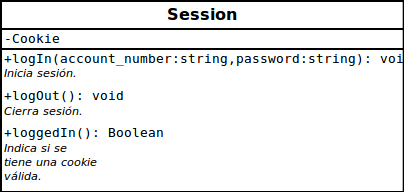
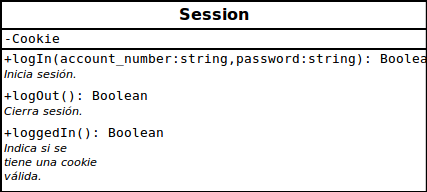
Models

diff --git a/app/src/main/java/mx/unam/becapp/app/models/Session.java b/app/src/main/java/mx/unam/becapp/app/models/Session.java
@@ -1,0 +1,72 @@
+package mx.unam.becapp.app.models;
+
+import org.json.JSONObject;
+import java.io.InputStream;
+import java.io.InputStreamReader;
+import org.apache.http.client.HttpClient;
+import org.apache.http.client.methods.HttpPost;
+import org.apache.http.entity.StringEntity;
+import org.apache.http.HttpResponse;
+
+public class Session {
+    private String app_url = "http://api-dgose.herokuapp.com";
+    private String action_url = "/users/sign_in/";
+
+    /**
+     * Envia la solicitud de login a la API.
+     *
+     * @param number Número de cuenta como String.
+     * @param password Contraseña.
+     */
+    public boolean logIn(String number, String password) {
+        InputStream is = null;
+        String result = null;
+
+        // FIXME: I mean, just look at it :-\
+        JSONObject jsonUser = new JSONObject()
+            .put("account_number", number)
+            .put("password", password);
+        JSONObject jsonObject = new JSONObjects()
+            .put("user", jsonUser);
+
+        try {
+            HttpClient httpclient = new DefaultHttpClient();
+            HttpPost httpPost = new HttpPost(url);
+
+            StringEntity se = new StringEntity(jsonObject.toString());
+
+            httpPost.setEntity(se);
+
+            httpPost.setHeader("Accept", "application/json");
+            httpPost.setHeader("Content-type", "application/json");
+
+            HttpResponse httpResponse = httpclient.execute(httpPost);
+
+            is = httpResponse.getEntity().getContent();
+
+            if(is != null)
+                result = convertInputStreamToString(is);
+            else
+                result = "Did not work!";
+
+        } catch (Exception e) {
+            result = e.getMessage();
+
+        } finally {
+            if (is != null) {
+                is.close();
+            } 
+        }
+
+        return result;
+        return false;
+    }
+
+    /**
+     * Envía el mensaje de fin de sesión a la API.
+     *
+     */
+    public boolean logOut() {
+        return false;
+    }
+}

diff --git a/docs/models.md b/docs/models.md
@@ -1,20 +1,18 @@
 # Modelos
 
-## `Session`
-### Una sesión del usuario.
+## Sesión de usuario `Session`
+![Diagrama de la clase Session](diagrams/models-session.png)
+    1. Al iniciar sesión en el sistema a través de la API, se contruye una instancia de la clase `Session`.
+    2. Se utiliza el método `logIn()` que recibe el nombre de usuario y contraseña; y devuelve el resultado de la solicitud.
+    3. Para cerrar sesión, se usa el método `logOut()` que no recibe parámetros y devuelve el resultado de la operación.
+
+
+## Perfil del becario `Profile`
 ![Diagrama de la clase Session](diagrams/models-session.png)
 
-Modelo usado para guardar los datos de la sesión. En cualquier momento debe existir una única instancia de esta clase.
-
-## `Profile`
-### Perfil del becario.
-![Diagrama de la clase Session](diagrams/models-session.png)
-
-## `DepositLogs`
-### Historial de depósitos.
+## Historial de Depósitos `DepositLogs`
 ![Diagrama de la clase Session](diagrams/models-deposits.png)
 
-## `EventFeed`
-### Programa de eventos.
+## Programa de eventos `EventFeed`
 ![Diagrama de la clase Session](diagrams/models-events.png)
 
